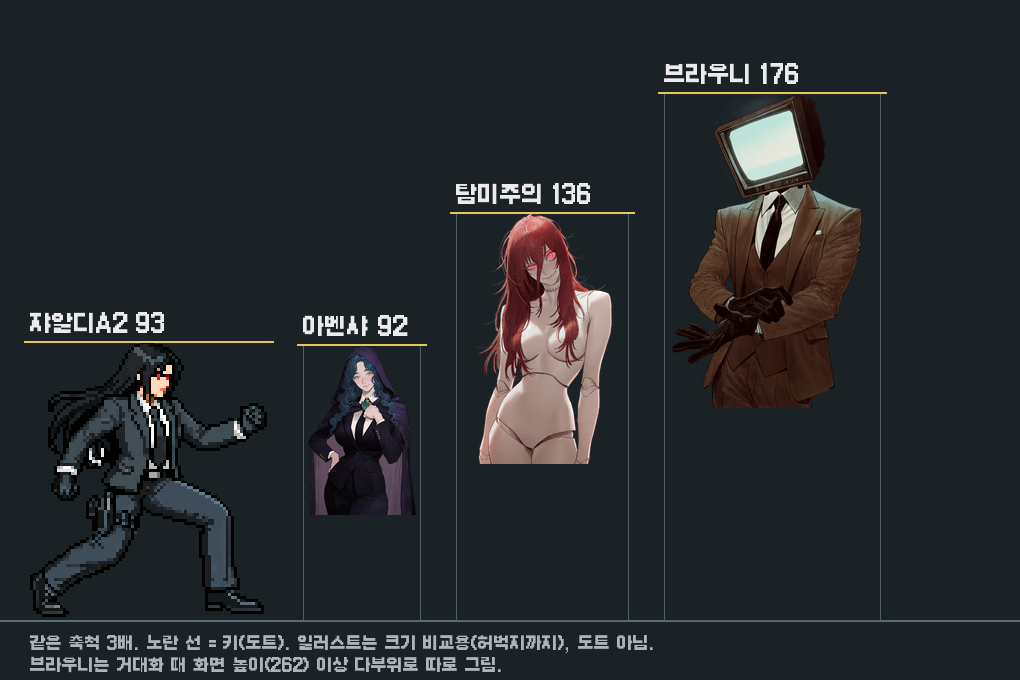
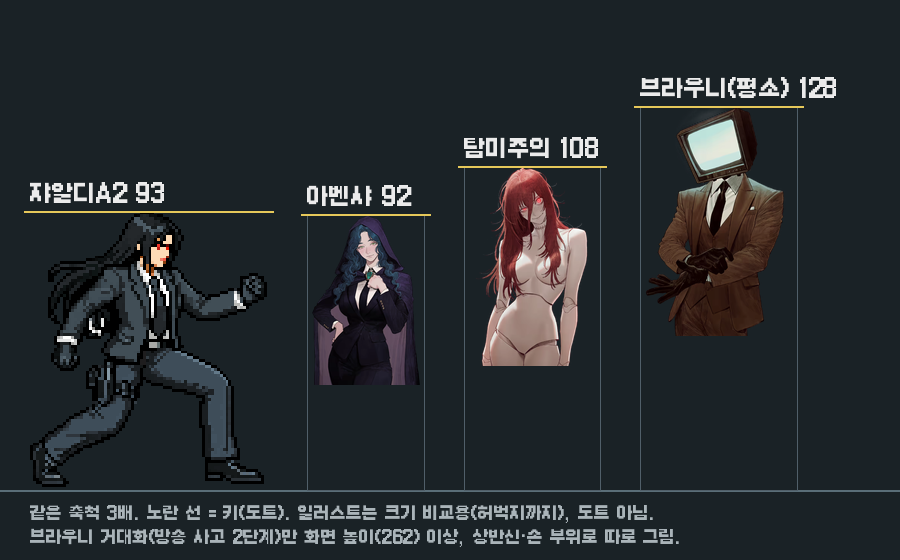
docs: 탐미주의 키 108, 브라우니 평소 키 128로 줄임(거대화는 그대로)
Claude-Session: https://claude.ai/code/session_01SaPPMLeqghjh8FA3485n4G

Changed region(s): [[0.0, 0.0911, 1.0, 1.0]]

diff --git a/game-src/action/named/plan.py b/game-src/action/named/plan.py
@@ -160,10 +160,10 @@ def cost(n):
 # 기준 그림·부위·예비(회수). 근거는 설계서 비용 절.
 EXTRA = {
  'avensha': [('기준 그림 후보 (pixen, 256×160)',4),('옷 보정 (edit_image_pixen, 필요할 때만)',6),('컷인 얼굴 ×2 후보',2)],
- 'brownie': [('기준 그림 후보 (pixen, 256×256)',4),('화면 비우기·옷 보정 (edit_image_pixen)',6),
+ 'brownie': [('기준 그림 후보 (pixen, 256×176)',4),('화면 비우기·옷 보정 (edit_image_pixen)',6),
              ('거대화 부위: 상반신(텔레비전 머리+어깨) 3자세 × 후보 2',6),('거대화 부위: 장갑 손 5자세(편 손·집는 손·쓸기·내려치기·가리키기) × 후보 2',10),
              ('토끼 키링 정지 후보 4 + 흔들림·박수 2클립(animate_image 3장 = 2회씩)',8),('컷인 ×2 후보',2)],
- 'aestheticism': [('기준 그림 후보 (pixen, 256×192)',4),('전시 정지 1장·빈 마네킹 1장 (edit_image_pixen ×2 후보)',4),('보정 (edit_image_pixen, 필요할 때만)',6),('컷인 ×2 후보',2)],
+ 'aestheticism': [('기준 그림 후보 (pixen, 256×160)',4),('전시 정지 1장·빈 마네킹 1장 (edit_image_pixen ×2 후보)',4),('보정 (edit_image_pixen, 필요할 때만)',6),('컷인 ×2 후보',2)],
 }
 RETRY = 0.25   # 쟈알디 실측 결함률
 

diff --git a/docs/캐릭터제작서/동작설계_brownie.md b/docs/캐릭터제작서/동작설계_brownie.md
@@ -14,7 +14,7 @@
 | 항목 | 브라우니 |
 | --- | --- |
 | 등급 | 괴이 존재(보스 이상). **체력 깎아 이기는 대상이 아님**(측정 불가). 적대해도 끝나는 조건은 쇼 안에 있다 |
-| 크기 | **M급 키 약 176**(쟈알디 1.9배, 256×256). 「방송 사고」 2단계에서 **스튜디오를 채우는 거대화**(L, 다부위: 텔레비전 머리 상반신 + 장갑 손, 화면 높이 이상) |
+| 크기 | 평소 **키 약 128**(쟈알디 1.38배, 어깨가 넓은 거구, 256×176). 사용자 확인 2026-10-22 02:47: 평소 176은 너무 큼 → 줄임. 「방송 사고」 2단계에서 **스튜디오를 채우는 거대화**(L, 다부위: 텔레비전 머리 상반신 + 장갑 손, 화면 높이 이상) |
 | 기본 태도 | 중립. 출연자 = "친구". 환대·예의·쇼맨십이 한 미덕 |
 | 자원 | **시청률 게이지**(0~100, 화면 위 방송국 간판 모양). 화면 표정이 곧 게이지: 웃음(70+) · 떨리는 웃음(40~69) · 우는 이모티콘(20~39) · **시계**(20 미만, 100초 카운트다운 시작) · 꺼진 화면(방송 사고) |
 | 고유 규칙 1 | **코너 진행**: 방에 들어가면 코너가 차례로 열린다. 퀴즈(선택지 문제) · 장애물(무대 장치를 스타일 있게 피하기) · 방청객 질문 · 상품. 각 코너에 **포맷 규칙**이 하나씩 붙는다(예: 퀴즈 중 아이템 사용 금지, 장애물 중 무대 밖으로 나가기 금지). 규칙은 화면 큐 카드로 보임 |
@@ -85,7 +85,7 @@
 | 대상 | 키(도트) | 비고 |
 | --- | --- | --- |
 | 쟈알디 | 93 | |
-| 브라우니 (진행자) | 약 176 | 텔레비전 머리 포함. 어깨 폭 쟈알디의 약 2배. 256×256, 발바닥 y=248, 기준 x=110 |
+| 브라우니 (진행자, 평소) | 약 128 | 텔레비전 머리 포함. 어깨 폭 쟈알디의 약 1.6배. 256×176, 발바닥 y=168, 기준 x=104 |
 | 브라우니 (거대화) | 화면 높이 이상 | 상반신 부위(머리+어깨, 256×256 한 장)를 엔진이 2배로 띄우지 않고 **그 크기 그대로 화면 위쪽에** 놓고, 장갑 손 부위(256×256)가 화면 양옆에서 들어옴. 다리는 안 보임(무대 바닥 아래) |
 | 토끼 키링 | 약 20 | 플레이어 허리에 매달림, 32×32 |
 
@@ -181,9 +181,9 @@
 
 ## 6. 제작 방식 (승인 뒤 한 번에)
 
-1. 기준 그림 후보 4(pixen 256×256) → A2 비교판 → 화면 비우기·옷 보정.
-2. 뼈대: 쟈알디 rig 방식, 뼈 길이 1.9배, 어깨 폭 2배, 목은 짧고 굵게(텔레비전 무게). 자동 검사.
-3. animate_with_skeleton_v3(256×256 한도 안), 동쪽만 뽑고 반전.
+1. 기준 그림 후보 4(pixen 256×176) → A2 비교판 → 화면 비우기·옷 보정.
+2. 뼈대: 쟈알디 rig 방식, 뼈 길이 1.38배, 어깨 폭 1.6배, 목은 짧고 굵게(텔레비전 무게). 자동 검사.
+3. animate_with_skeleton_v3(256×176), 동쪽만 뽑고 반전.
 4. 화면 영역 검출 → `screen.json`. 화면에 무늬가 생긴 장은 그 장만 화면 영역을 빈 유리색으로 덮어 씀(외곽선 보존).
 5. 거대화 부위 pixen + 키링 pixen·animate_image.
 6. 검수 → 결함만 다시 → 빌드 `game-src/action/named/brownie/final/` (스트립, manifest.json, hands.json, screen.json), 시연판 `release/demo/named-three.html`에 화면 표정 바꾸기 단추.
@@ -192,7 +192,7 @@
 
 | 항목 | 회수 |
 | --- | --- |
-| 기준 그림 후보 4 | 4 |
+| 기준 그림 후보 4 (256×176) | 4 |
 | 화면 비우기·옷 보정 | 최대 6 |
 | 38클립 × 3 | 114 |
 | 거대화 상반신 3자세 × 후보 2 | 6 |
@@ -208,7 +208,7 @@
 - 텔레비전 머리 모양·기울기·나무 테두리, 갈색 쓰리피스(조끼 보임)·흰 셔츠·넥타이·손수건·검은 장갑이 모든 장에 있음. **화면이 비어 있음**.
 - 텔레비전이 장마다 같은 크기(±2px), 목에서 떨어지거나 돌아가지 않음.
 - 옆모습 유지, 팔꿈치·무릎 방향 정상, 발바닥 선 일정.
-- 큰 체격 유지(어떤 장에서도 쟈알디만 하게 줄지 않음). 키 비교판: 브라우니 > 탐미주의 > 쟈알디 ≈ 아벤샤.
+- 큰 체격 유지(어떤 장에서도 쟈알디만 하게 줄지 않음). 키 비교판: 브라우니(128) > 탐미주의(108) > 쟈알디(93) ≈ 아벤샤(92).
 - 그림에 소품·사람·빛·불이 없음.
 - 쟈알디 같은 이름 클립과 같은 동작처럼 보이면 불합격.
 

diff --git a/docs/캐릭터제작서/동작설계_aestheticism.md b/docs/캐릭터제작서/동작설계_aestheticism.md
@@ -14,7 +14,7 @@
 | 항목 | 탐미주의 |
 | --- | --- |
 | 등급 | 괴이 존재(관리국 「열강」 중 유일한 개인). **쓰러뜨릴 수 없음**: 그릇(마네킹)만 부술 수 있음 |
-| 크기 | **M급 키 약 136**(쟈알디 1.46배, 하이힐·머리 포함), 팔다리가 긴 마네킹. 256×192 |
+| 크기 | **키 약 108**(쟈알디 1.16배, 하이힐·머리 포함, 키 큰 여자 정도), 팔다리가 긴 마네킹. 256×160. 사용자 확인 2026-10-22 02:47: 136은 너무 큼 → 줄임. 위압감은 크기 대신 꺾이는 관절·접힌 질주로 |
 | 기본 태도 | 중립(관람·인터뷰). **미술관 계열 방**(미술관·몽중몽·인스피레이션 호텔·예술가의 지하실·반복 갤러리 태그)에만 나옴 |
 | 다가오는 징후 | **두통**(화면 가장자리 일렁임 3초) → **하이힐 소리**(방향 소리) → 등장. 은신 상태면 두통만 오고 지나갈 수도 있음 |
 | 자원 | **그릇 = 방의 마네킹들**. 방에 빈 마네킹(blank) 2~5개가 서 있음. 지금 몸이 부서지면 **지지직 소리가 난 다른 마네킹**이 고개를 듦(possess). 빈 마네킹을 먼저 부수면 옮겨 갈 곳이 줄어듦 |
@@ -87,8 +87,8 @@
 | 대상 | 키(도트) | 비고 |
 | --- | --- | --- |
 | 쟈알디 | 93 | |
-| 탐미주의 | 약 136 | 하이힐·머리 포함, 다리가 몸의 55%. 256×192, 발바닥 y=184, 기준 x=100 |
-| 빈 마네킹 (blank) | 약 130 | 같은 몸, 머리카락·얼굴 없음(민머리 둥근 머리), 정지 1장 |
+| 탐미주의 | 약 108 | 하이힐·머리 포함, 다리가 몸의 55%. 256×160, 발바닥 y=152, 기준 x=100 |
+| 빈 마네킹 (blank) | 약 104 | 같은 몸, 머리카락·얼굴 없음(민머리 둥근 머리), 정지 1장 |
 
 비교판: `game-src/action/named/키비교_A2.png`.
 
@@ -171,9 +171,9 @@
 
 ## 6. 제작 방식 (승인 뒤 한 번에)
 
-1. 기준 그림 후보 4(pixen 256×192) → A2 비교판 → 보정. 나체로 보이는 후보는 바로 버림(세부 없는 마네킹이어야 통과).
+1. 기준 그림 후보 4(pixen 256×160) → A2 비교판 → 보정. 나체로 보이는 후보는 바로 버림(세부 없는 마네킹이어야 통과).
 2. 빈 마네킹·전시물 정지: 기준 그림을 edit_image_pixen으로(머리카락·얼굴 지움 / 팔 든 포즈).
-3. 뼈대: 쟈알디 rig 방식, 뼈 길이 1.46배, 다리 비율 늘림, 반대 꺾임 클립은 따로 표시. 자동 검사는 반대 꺾임 클립에서 팔꿈치 방향 검사를 뒤집어 적용.
+3. 뼈대: 쟈알디 rig 방식, 뼈 길이 1.16배, 다리 비율 늘림, 반대 꺾임 클립은 따로 표시. 자동 검사는 반대 꺾임 클립에서 팔꿈치 방향 검사를 뒤집어 적용.
 4. 생성 → 검수 → 결함만 다시 → 빌드 `game-src/action/named/aestheticism/final/` (스트립, manifest.json, hands.json).
 5. 시연판 `release/demo/named-three.html`: 그릇 옮김 시연(빈 마네킹 3개 중 하나가 깨어남), 선언 원.
 
@@ -195,7 +195,7 @@
 - 빨간 긴 머리·붉은 눈·주근깨·어긋난 미소·목 봉합·관절 이음매가 모든 장에 있음. 몸은 **세부 없는 마네킹**(장마다 확인, 하나라도 사람 맨몸처럼 보이면 그 장 불합격).
 - 반대 꺾임 클립은 실제로 반대로 꺾여 있음(정상 방향이면 불합격), 그 밖의 클립은 정상 방향.
 - decree는 어깨·가슴이 안 오르내림.
-- 옆모습, 발바닥 선, 키 136 ±3 유지.
+- 옆모습, 발바닥 선, 키 108 ±3 유지.
 - 그림에 바늘·실·대상·액자·물감 없음.
 - 쟈알디 같은 이름 클립과 같은 동작처럼 보이면 불합격.
 
